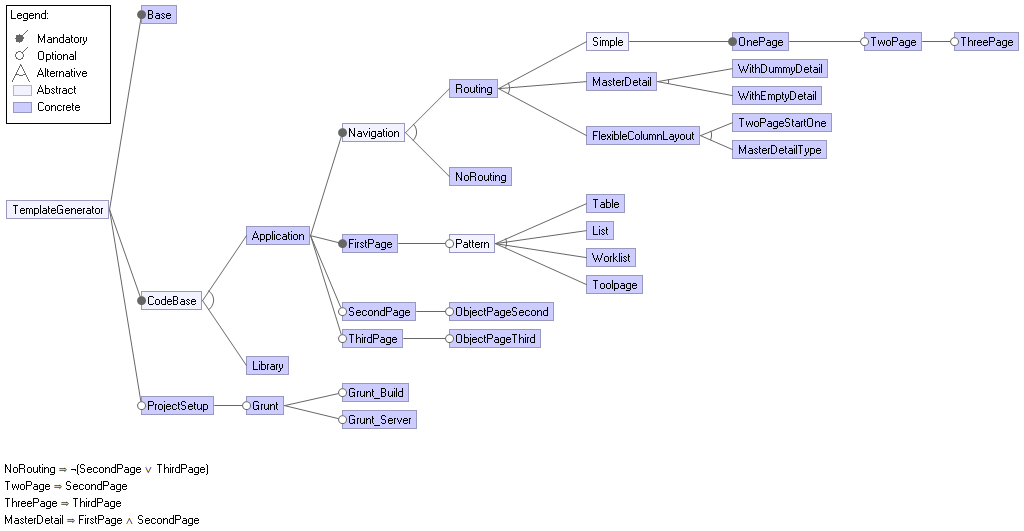
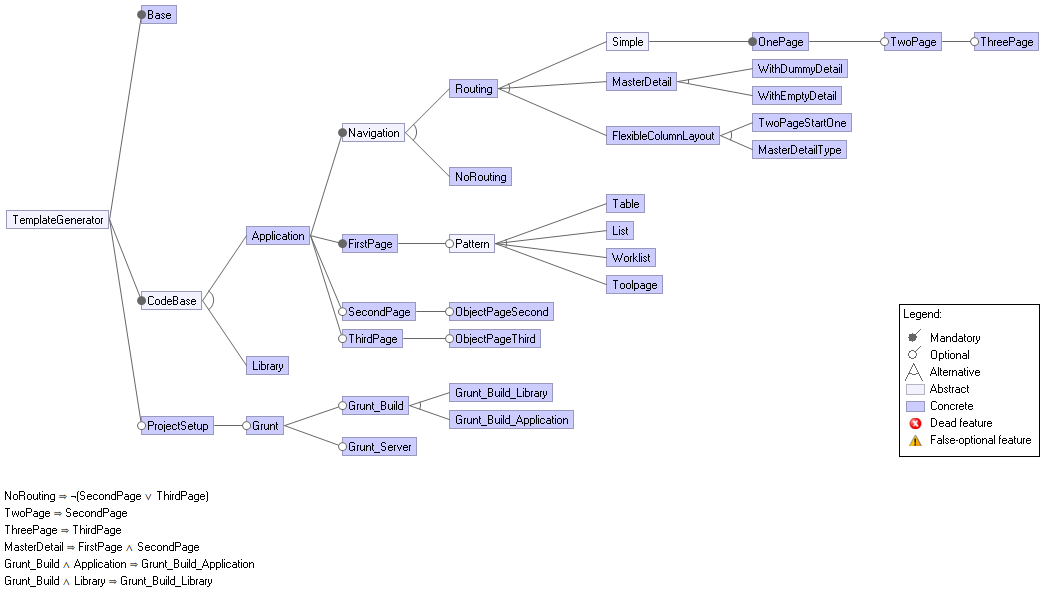
Started to add build configurations

diff --git a/features/Grunt_Build_Application/Gruntfile.js b/features/Grunt_Build_Application/Gruntfile.js
@@ -1,0 +1,25 @@
+function setupConfig(grunt) {
+    original(grunt);
+    grunt.config.merge({
+        openui5_preload: {
+            component: {
+                options: {
+                    resources: {
+                        cwd: 'webapp',
+                        prefix: 'fop.template.ui5'
+                    },
+                    dest: 'dist'
+                },
+                components: 'fop.template.ui5'
+            }
+        }
+    });
+}
+
+function loadNPMTasks(grunt) {
+    original(grunt);
+}
+
+function registerTasks(grunt) {
+    original(grunt);
+}

diff --git a/features/Grunt_Build/Gruntfile.js b/features/Grunt_Build/Gruntfile.js
@@ -1,0 +1,4 @@
+function loadNPMTasks(grunt) {
+    original(grunt);
+    grunt.loadNpmTasks('grunt-openui5');
+}
